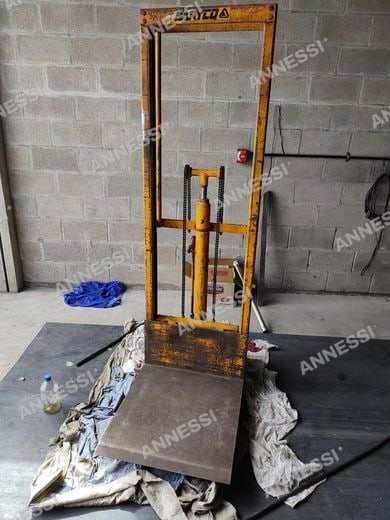
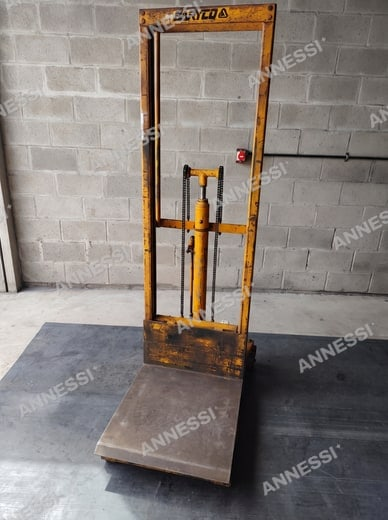
Fotos: elevador y agitador actualizados, sin la retorta 6
- Elevador manual antes 1 y 2: fotos nuevas (achicadas a 1600 px de lado, como el resto).
- Agitador de tamices tipo armario antes 1: recortada.
- Retorta para horno rotativo 6: fuera de la galería y de img/.
- marcar-fotos.js achica al marcar las fotos de más de 1600 px (miniaturas: 520 px).

diff --git a/js/trabajos.js b/js/trabajos.js
@@ -5,7 +5,7 @@
   c = categoría · t = título · p = fotos [archivo, "a" antes / "d" después / "" común]
 */
 window.TRABAJOS = [
-{"c":"equipos","t":"Retorta para horno rotativo","p":[["img/trabajos/equipos/retorta-para-horno-rotativo-4.jpg",""],["img/trabajos/equipos/retorta-para-horno-rotativo-6.jpg",""],["img/trabajos/equipos/retorta-para-horno-rotativo-1.jpg",""],["img/trabajos/equipos/retorta-para-horno-rotativo-2.jpg",""],["img/trabajos/equipos/retorta-para-horno-rotativo-3.jpg",""]],"id":"retorta-para-horno-rotativo"},
+{"c":"equipos","t":"Retorta para horno rotativo","p":[["img/trabajos/equipos/retorta-para-horno-rotativo-4.jpg",""],["img/trabajos/equipos/retorta-para-horno-rotativo-1.jpg",""],["img/trabajos/equipos/retorta-para-horno-rotativo-2.jpg",""],["img/trabajos/equipos/retorta-para-horno-rotativo-3.jpg",""]],"id":"retorta-para-horno-rotativo"},
 {"c":"equipos","t":"Horno de laboratorio","p":[["img/trabajos/equipos/horno-de-laboratorio.jpg",""]],"id":"horno-de-laboratorio"},
 {"c":"equipos","t":"Molino de laboratorio","p":[["img/trabajos/equipos/molino-de-laboratorio-1.jpg",""],["img/trabajos/equipos/molino-de-laboratorio-2.jpg",""],["img/trabajos/equipos/molino-de-laboratorio-3.jpg",""]],"id":"molino-de-laboratorio"},
 {"c":"equipos","t":"Prensa para ensayo","p":[["img/trabajos/equipos/prensa-para-ensayo-1.jpg",""],["img/trabajos/equipos/prensa-para-ensayo-2.jpg",""]],"id":"prensa-para-ensayo"},

diff --git a/herramientas/marcar-fotos.js b/herramientas/marcar-fotos.js
@@ -28,6 +28,8 @@ const ANGULO = -28;         // inclinación de la trama
 const SEPARACION_X = 0.46;  // distancia horizontal entre logos (relativa al ancho de la foto)
 const SEPARACION_Y = 0.20;  // distancia vertical entre filas
 const CALIDAD_JPG = 86;
+// lado mayor máximo: las fotos más grandes se achican al marcarlas (las que ya entran quedan igual)
+const LADO_MAX = { trabajos: 1600, miniaturas: 520 };
 
 // Logo: se toma el path del wordmark del sitio
 const svgLogo = fs.readFileSync(path.join(RAIZ, 'img/logo/annessi-wordmark.svg'), 'utf8');
@@ -74,7 +76,8 @@ function* archivos(dir) {
       const destino = path.join(RAIZ, 'img', rel);
       if (SOLO_NUEVAS && fs.existsSync(destino)) { saltadas++; continue; }
       fs.mkdirSync(path.dirname(destino), { recursive: true });
-      const base = sharp(f).rotate();                    // respeta la orientación EXIF
+      const base = sharp(f).rotate()                     // respeta la orientación EXIF
+        .resize({ width: LADO_MAX[carpeta], height: LADO_MAX[carpeta], fit: 'inside', withoutEnlargement: true });
       const { width, height } = await base.clone().toBuffer({ resolveWithObject: true }).then(r => r.info);
       await base
         .composite([{ input: marca(width, height), top: 0, left: 0 }])
